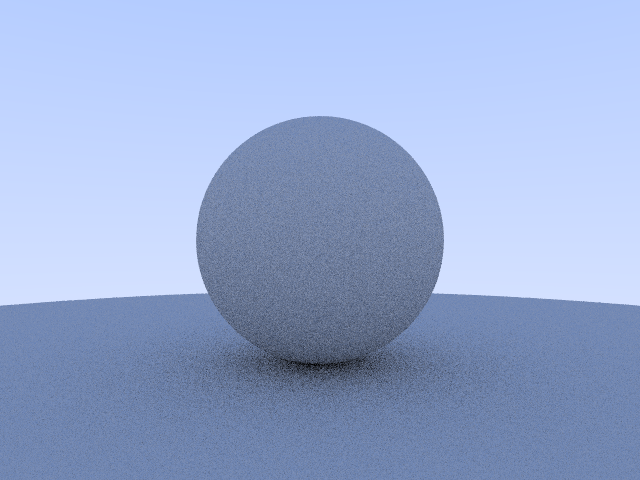
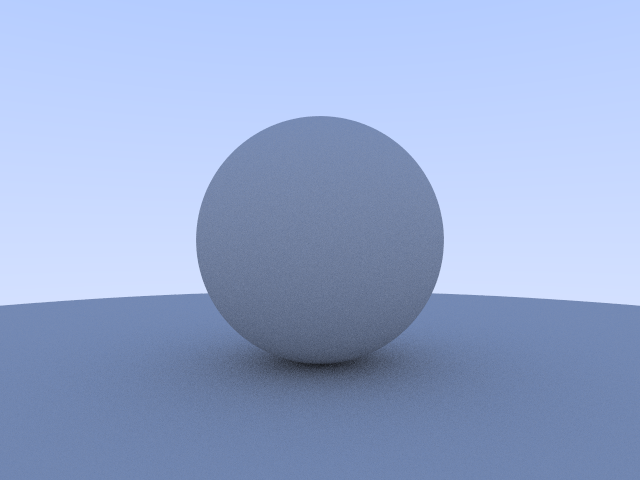
multithreading

Changed region(s): [[0.3125, 0.7188, 0.6562, 0.8125]]

diff --git a/src/camera/camera.c b/src/camera/camera.c
@@ -1,5 +1,7 @@
 #include "camera.h"
 
+#include <bits/pthreadtypes.h>
+#include <pthread.h>
 #include <stdio.h>
 #include <stdlib.h>
 #include <string.h>
@@ -25,7 +27,7 @@ Camera* camera_create(u32 width, u32 height) {
 
 	camera->viewport = viewport_create(width, height);
 
-	camera->sample_count = 10;
+	camera->sample_count = CAMERA_DEFAULT_SAMPLE_COUNT;
 
 	return camera;
 
@@ -34,26 +36,134 @@ error:
 	return NULL;
 }
 
-void camera_render(Camera* camera, Framebuffer* framebuffer, World* world) {
-	for (usize s = 0; s < camera->sample_count; s++) {
-		for (usize y = 0; y < framebuffer->height; y++) {
-			for (usize x = 0; x < framebuffer->width; x++) {
-				vec2 pixel_offset = (vec2) { ((x + (random_f32() - 0.5f)) * camera->viewport.delta.x), ((y + (random_f32() - 0.5f)) * camera->viewport.delta.y) };
-				vec2 pixel_location = vec2_add(camera->viewport.first_pixel, pixel_offset);
+struct CameraRenderWorkerContext {
+    CameraRenderWorker* worker;
 
-				vec3 direction = vec3_sub((vec3) { pixel_location.x, pixel_location.y, -camera->focal_length }, camera->position);
-				Ray ray = (Ray) { camera->position, direction };
+    Camera* camera;
+    World* world;
 
-				usize i = (y * framebuffer->width + x);
-				framebuffer->pixels[i] = color_add(framebuffer->pixels[i], world_cast_ray(world, &ray, 0));
-			}
-		}
-	}
+    Framebuffer* framebuffer;
+    CameraRenderWork* work;
+    u32 work_length;
+    u32* next_work_i;
+    u64 state;
+    pthread_mutex_t* mutex;
+};
 
-	f32 sample_count_scale = 1.0f / camera->sample_count;
-	for (usize i = 0; i < framebuffer->pixels_length; i++) {
-		framebuffer->pixels[i] = color_scale(framebuffer->pixels[i], sample_count_scale);
-	}
+void* camera_render_worker_work(void* context_ptr) {
+    struct CameraRenderWorkerContext* context = (struct CameraRenderWorkerContext*) context_ptr;
+    CameraRenderWorker* worker = context->worker;
+
+    while (true) {
+        pthread_mutex_lock(context->mutex);
+
+        if (*context->next_work_i >= context->work_length) {
+            pthread_mutex_unlock(context->mutex);
+            break;
+        }
+
+        u32 job_i = *context->next_work_i;
+        (*context->next_work_i)++;
+
+        pthread_mutex_unlock(context->mutex);
+
+        worker->work_i = job_i;
+
+        f32 sample_scale = 1.0f / context->camera->sample_count;
+
+  		for (usize y = context->work[worker->work_i].framebuffer_section.start_y; y < context->work[worker->work_i].framebuffer_section.end_y; y++) {
+ 			for (usize x = context->work[worker->work_i].framebuffer_section.start_x; x < context->work[worker->work_i].framebuffer_section.end_x; x++) {
+                Color accumulated_color = (Color) { 0.0f, 0.0f, 0.0f };
+
+                for (usize s = 0; s < context->camera->sample_count; s++) {
+                    vec2 random_offset = (vec2) { (random_f32(&context->state) - 0.5f), (random_f32(&context->state) - 0.5f) };
+                    vec2 pixel_offset = (vec2) { ((x + random_offset.x) * context->camera->viewport.delta.x), ((y + random_offset.y) * context->camera->viewport.delta.y) };
+                    vec2 pixel_location = vec2_add(context->camera->viewport.first_pixel, pixel_offset);
+
+                    vec3 direction = vec3_sub((vec3) { pixel_location.x, pixel_location.y, -context->camera->focal_length }, context->camera->position);
+                    Ray ray = (Ray) { context->camera->position, direction };
+
+                    accumulated_color = color_add(accumulated_color, world_cast_ray(context->world, &ray, &context->state, 0));
+                }
+
+                context->framebuffer->pixels[y * context->framebuffer->width + x] = color_scale(accumulated_color, sample_scale);
+ 			}
+  		}
+   	}
+
+    return NULL;
+}
+
+void camera_render(Camera* camera, Framebuffer* framebuffer, World* world, u32 thread_count) {
+    u32 tile_size = CAMERA_STARTING_TILE_SIZE;
+    u32 target_tiles_per_worker = thread_count * CAMERA_TARGET_TILES_PER_WORKER;
+
+    u32 x_scale = framebuffer->width / tile_size + (framebuffer->width % tile_size != 0);
+    u32 y_scale = framebuffer->height / tile_size + (framebuffer->height % tile_size != 0);
+    u32 work_length = x_scale * y_scale;
+
+    while (work_length < target_tiles_per_worker && tile_size > 8) {
+        tile_size /= 2;
+        x_scale = framebuffer->width / tile_size + (framebuffer->width % tile_size != 0);
+        y_scale = framebuffer->height / tile_size + (framebuffer->height % tile_size != 0);
+        work_length = x_scale * y_scale;
+    }
+
+    CameraRenderWork* work = malloc(sizeof(CameraRenderWork) * work_length);
+    if (!work) {
+        fprintf(stderr, "[ERROR] Failed to allocate work buffer!\n");
+        return;
+    }
+
+    for (usize y = 0; y < y_scale ; y++) {
+        for (usize x = 0; x < x_scale; x++) {
+            u32 start_x = x * tile_size;
+            u32 start_y = y * tile_size;
+
+            u32 width = framebuffer->width - start_x;
+            u32 height = framebuffer->height - start_y;
+
+            if (width > tile_size) { width = tile_size; }
+            if (height > tile_size) { height = tile_size; }
+
+            work[y * x_scale + x].framebuffer_section = (FramebufferSection) {
+                .start_x = start_x,
+                .end_x = start_x + width,
+                .start_y = start_y,
+                .end_y = start_y + height,
+            };
+        }
+    }
+
+    CameraRenderWorker* workers = (CameraRenderWorker*) malloc(sizeof(CameraRenderWorker) * thread_count);
+    if (!workers) {
+        fprintf(stderr, "[ERROR] Failed to allocate workers!\n");
+        return;
+    }
+    struct CameraRenderWorkerContext* contexts = (struct CameraRenderWorkerContext*) malloc(sizeof(struct CameraRenderWorkerContext) * thread_count);
+    if (!contexts) {
+        fprintf(stderr, "[ERROR] Failed to allocate contexts!\n");
+        return;
+    }
+
+    u32 next_work_i = 0;
+    pthread_mutex_t mutex = PTHREAD_MUTEX_INITIALIZER;
+
+    for (usize i = 0; i < thread_count; i++) {
+        u64 state = time(NULL) * (88172645463325252ULL + i); // probably find a like correct way of doing this
+        contexts[i] = (struct CameraRenderWorkerContext) { &workers[i], camera, world, framebuffer, work, work_length, &next_work_i, state, &mutex };
+        workers[i].work_i = i;
+        pthread_create(&workers[i].thread, NULL, camera_render_worker_work, &contexts[i]); // error check this
+    }
+
+    for (usize i = 0; i < thread_count; i++) {
+        pthread_join(workers[i].thread, NULL);
+    }
+
+	pthread_mutex_destroy(&mutex);
+	free(contexts);
+	free(workers);
+	free(work);
 }
 
 void camera_destroy(Camera* camera) {

diff --git a/src/math/random/random.c b/src/math/random/random.c
@@ -1,34 +1,37 @@
 #include "random.h"
 
-#include <stdlib.h>
 #include <math.h>
 
 #include "math/vec3/vec3.h"
 #include "base-types.h"
 
-void random_set_seed(u32 seed) {
-	srand(seed);
+u32 pcg32(u64* state) {
+    u64 oldstate = *state;
+    *state = oldstate * 6364136223846793005ULL + 1u;
+    u32 xorshifted = (u32)(((oldstate >> 18u) ^ oldstate) >> 27u);
+    u32 rot = oldstate >> 59u;
+    return (xorshifted >> rot) | (xorshifted << ((-rot) & 31));
 }
 
-inline f32 random_f32() {
-	return rand() / (RAND_MAX + 1.0f);
+inline f32 random_f32(u64* state) {
+  return (pcg32(state) >> 8) * (1.0f / 16777216.0f);
 }
 
-inline f32 random_f32_range(f32 min, f32 max) {
-	return min + (max - min) * random_f32();
+inline f32 random_f32_range(u64* state, f32 min, f32 max) {
+	return min + (max - min) * random_f32(state);
 }
 
-inline vec3 random_vec3() {
-	return (vec3) { random_f32(), random_f32(), random_f32() };
+inline vec3 random_vec3(u64* state) {
+	return (vec3) { random_f32(state), random_f32(state), random_f32(state) };
 }
 
-inline vec3 random_vec3_range(f32 min, f32 max) {
-	return (vec3) { random_f32_range(min, max), random_f32_range(min, max), random_f32_range(min, max) };
+inline vec3 random_vec3_range(u64* state, f32 min, f32 max) {
+	return (vec3) { random_f32_range(state, min, max), random_f32_range(state, min, max), random_f32_range(state, min, max) };
 }
 
-inline vec3 random_vec3_normalized() {
+inline vec3 random_vec3_normalized(u64* state) {
 	while (true) {
-		vec3 point = random_vec3_range(-1.0f, 1.0f);
+		vec3 point = random_vec3_range(state, -1.0f, 1.0f);
 		f32 length_squared = vec3_length_squared(point);
 		if (0.001f < length_squared && length_squared <= 1.0f) {
 			return vec3_scale(point, 1.0f / sqrtf(length_squared));
@@ -36,8 +39,8 @@ inline vec3 random_vec3_normalized() {
 	}
 }
 
-inline vec3 random_vec3_on_hemisphere(vec3 normal) {
-	vec3 unit_sphere = random_vec3_normalized();
+inline vec3 random_vec3_on_hemisphere(u64* state, vec3 normal) {
+	vec3 unit_sphere = random_vec3_normalized(state);
 	if (vec3_dot(unit_sphere, normal) < 0.0f) {
 		unit_sphere = vec3_scale(unit_sphere, -1.0f);
 	}

diff --git a/src/main.c b/src/main.c
@@ -1,9 +1,7 @@
 #include <stdio.h>
-#include <time.h>
 
 #include "camera/camera.h"
 #include "framebuffer/framebuffer.h"
-#include "math/random/random.h"
 #include "world/world.h"
 #include "math/sphere/sphere.h"
 #include "image/image.h"
@@ -12,8 +10,6 @@
 #define IMAGE_HEIGHT 480
 
 int main() {
-	random_set_seed(time(NULL));
-
 	Framebuffer framebuffer = framebuffer_create(640, 480);
 
 	Camera* camera = camera_create(IMAGE_WIDTH, IMAGE_HEIGHT);
@@ -26,7 +22,16 @@ int main() {
 	world_add_sphere(&world, (Sphere) { (vec3) { 0.0f, 0.0f, -4.0f }, 1.0f });
 	world_add_sphere(&world, (Sphere) { (vec3) { 0.0f, -101.0f, -4.0f }, 100.0f });
 
-	camera_render(camera, &framebuffer, &world);
+	struct timespec start, end;
+	clock_gettime(CLOCK_MONOTONIC, &start);
+
+	camera_render(camera, &framebuffer, &world, 16);
+
+	clock_gettime(CLOCK_MONOTONIC, &end);
+
+	f64 elapsed = (f64) (end.tv_sec - start.tv_sec) + (f64) (end.tv_nsec - start.tv_nsec) / 1e9;
+
+	printf("Render time: %.2f seconds\n", elapsed);
 
 	if (!image_create_png("../output.png", &framebuffer)) {
 		fprintf(stderr, "[ERROR] Failed to export image!\n");

diff --git a/src/camera/camera.h b/src/camera/camera.h
@@ -1,10 +1,17 @@
 #pragma once
 
+#include <pthread.h>
+
 #include "base-types.h"
 #include "math/vec3/vec3.h"
 #include "viewport/viewport.h"
 #include "world/world.h"
 #include "framebuffer/framebuffer.h"
+
+#define CAMERA_DEFAULT_SAMPLE_COUNT 100
+
+#define CAMERA_STARTING_TILE_SIZE 256
+#define CAMERA_TARGET_TILES_PER_WORKER 16
 
 typedef struct Camera {
 	vec3 position;
@@ -14,6 +21,16 @@ typedef struct Camera {
 	u32 sample_count;
 } Camera;
 
+typedef struct CameraRenderWork {
+    FramebufferSection framebuffer_section;
+} CameraRenderWork;
+
+typedef struct CameraRenderWorker {
+    pthread_t thread;
+
+    u32 work_i;
+} CameraRenderWorker;
+
 Camera* camera_create(u32 framebuffer_width, u32 framebuffer_height);
-void camera_render(Camera* camera, Framebuffer* framebuffer, World* world);
+void camera_render(Camera* camera, Framebuffer* framebuffer, World* world, u32 thread_count);
 void camera_destroy(Camera* camera);

diff --git a/src/world/world.c b/src/world/world.c
@@ -32,7 +32,7 @@ void world_add_sphere(World* world, Sphere sphere) {
 }
 
 
-Color world_cast_ray(World* world, Ray* ray, u32 bounces) {
+Color world_cast_ray(World* world, Ray* ray, u64* state, u32 bounces) {
 	if (bounces >= world->max_ray_bounces) { return (Color) { 0.0f, 0.0f, 0.0f }; }
 
 	RayHit closest_hit = {0};
@@ -47,8 +47,8 @@ Color world_cast_ray(World* world, Ray* ray, u32 bounces) {
 	}
 
 	if (closest_hit.hit) {
-		Ray ray = (Ray) { closest_hit.hit_position, vec3_add(closest_hit.normal, random_vec3_normalized()) };
-		return color_scale(world_cast_ray(world, &ray, bounces + 1), 0.5f);
+		Ray ray = (Ray) { closest_hit.hit_position, vec3_add(closest_hit.normal, random_vec3_normalized(state)) };
+		return color_scale(world_cast_ray(world, &ray, state, bounces + 1), 0.5f);
 	}
 
 	// sky

diff --git a/src/math/random/random.h b/src/math/random/random.h
@@ -3,12 +3,10 @@
 #include "base-types.h"
 #include "math/vec3/vec3.h"
 
-void random_set_seed(u32 seed);
+f32 random_f32(u64* state);
+f32 random_f32_range(u64* state, f32 min, f32 max);
 
-f32 random_f32();
-f32 random_f32_range(f32 min, f32 max);
-
-vec3 random_vec3();
-vec3 random_vec3_range(f32 min, f32 max);
-vec3 random_vec3_normalized();
-vec3 random_vec3_on_hemisphere(vec3 normal);
+vec3 random_vec3(u64* state);
+vec3 random_vec3_range(u64* state, f32 min, f32 max);
+vec3 random_vec3_normalized(u64* state);
+vec3 random_vec3_on_hemisphere(u64* state, vec3 normal);

diff --git a/src/framebuffer/framebuffer.h b/src/framebuffer/framebuffer.h
@@ -9,5 +9,10 @@ typedef struct Framebuffer {
 	u32 width, height;
 } Framebuffer;
 
+typedef struct FramebufferSection {
+    u32 start_x, end_x;
+    u32 start_y, end_y;
+} FramebufferSection;
+
 Framebuffer framebuffer_create(u32 width, u32 height);
 void framebuffer_destroy(Framebuffer* framebuffer);

diff --git a/src/world/world.h b/src/world/world.h
@@ -22,5 +22,5 @@ World world_create();
 
 void world_add_sphere(World* world, Sphere sphere);
 
-Color world_cast_ray(World* world, Ray* ray, u32 bounces);
+Color world_cast_ray(World* world, Ray* ray, u64* state, u32 bounces);
 void world_destroy(World* world);

diff --git a/src/base-types.h b/src/base-types.h
@@ -10,6 +10,8 @@ typedef uint16_t u16;
 typedef uint32_t u32;
 typedef uint64_t u64;
 typedef size_t usize;
+
+#define U32_MAX UINT32_MAX
 #define USIZE_MAX SIZE_MAX
 
 typedef int8_t i8;
